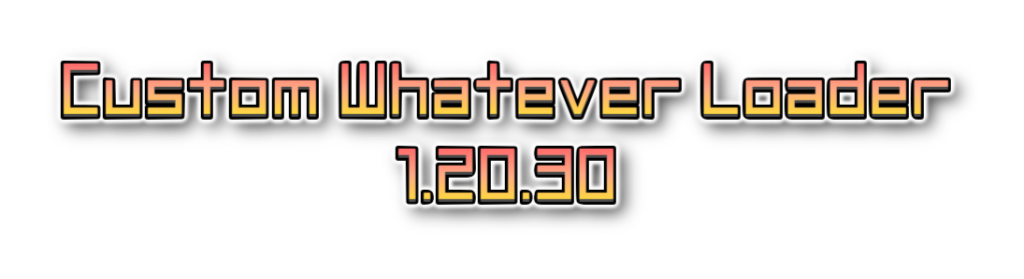
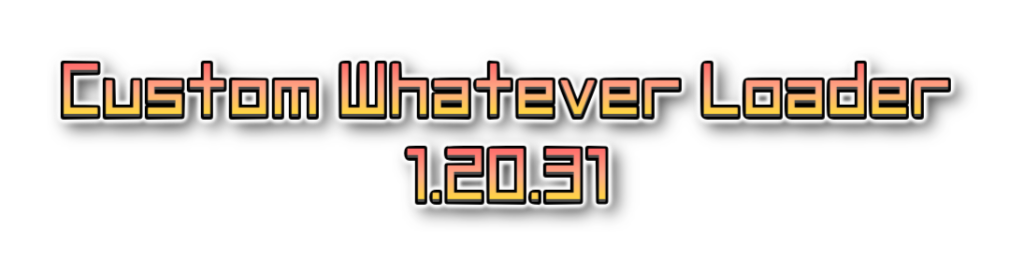
chore(CWL): bump version

diff --git a/CustomWhateverLoader/Loader/CustomWhateverLoader.cs b/CustomWhateverLoader/Loader/CustomWhateverLoader.cs
@@ -9,7 +9,7 @@ public static class ModInfo
     // for legacy reason
     public const string Guid = "dk.elinplugins.customdialogloader";
     public const string Name = "Custom Whatever Loader";
-    public const string Version = "1.20.30";
+    public const string Version = "1.20.31";
 }
 
 [BepInPlugin(ModInfo.Guid, ModInfo.Name, ModInfo.Version)]
